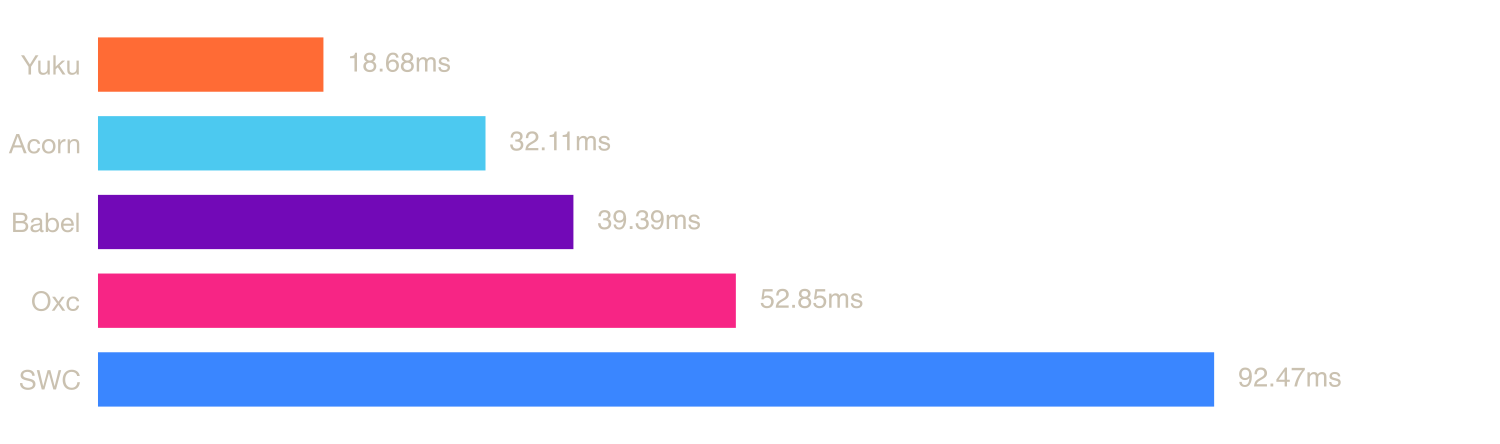
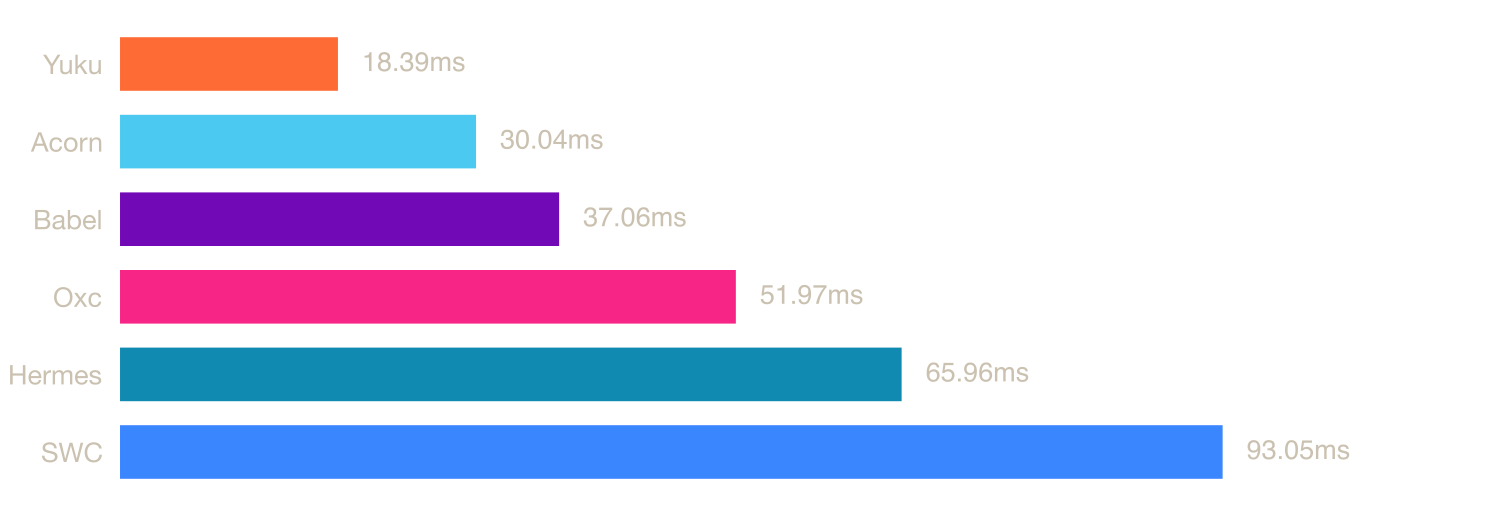
update

Changed region(s): [[0.0, 0.0586, 0.92, 0.9369]]

diff --git a/scripts/generate-readme.ts b/scripts/generate-readme.ts
@@ -10,37 +10,38 @@ const FILES_SOURCE_URL_PREFIX =
 const PARSERS = {
   acorn: {
     name: "Acorn",
-    type: "Pure JS",
     description:
       "A tiny, fast JavaScript parser, written completely in JavaScript.",
     url: "https://github.com/acornjs/acorn",
   },
   babel: {
     name: "Babel",
-    type: "Pure JS",
     description:
       "A JavaScript compiler and parser used by the Babel toolchain.",
     url: "https://github.com/babel/babel/tree/main/packages/babel-parser",
   },
+  hermes: {
+    name: "Hermes",
+    description:
+      "A JavaScript engine optimized for React Native, with a standalone parser available via WASM.",
+    url: "https://github.com/nicolo-ribaudo/hermes-parser",
+  },
   oxc: {
     name: "Oxc",
-    type: "Native (NAPI)",
     description:
-      "A high-performance JavaScript and TypeScript parser written in Rust, with NAPI bindings.",
+      "A high-performance JavaScript and TypeScript parser written in Rust.",
     url: "https://github.com/oxc-project/oxc",
   },
   swc: {
     name: "SWC",
-    type: "Native (NAPI)",
     description:
-      "An extensible Rust-based platform for compiling and bundling JavaScript and TypeScript, with NAPI bindings.",
+      "An extensible Rust-based platform for compiling and bundling JavaScript and TypeScript.",
     url: "https://github.com/swc-project/swc",
   },
   yuku: {
     name: "Yuku",
-    type: "Native (NAPI)",
     description:
-      "A high-performance & spec-compliant JavaScript/TypeScript compiler written in Zig, with NAPI bindings.",
+      "A high-performance & spec-compliant JavaScript/TypeScript compiler written in Zig.",
     url: "https://github.com/yuku-toolchain/yuku",
   },
 } as const;
@@ -48,6 +49,7 @@ const PARSERS = {
 const CHART_COLORS: Record<string, string> = {
   acorn: "#4CC9F0",
   babel: "#7209B7",
+  hermes: "#118AB2",
   oxc: "#F72585",
   swc: "#3A86FF",
   yuku: "#FF6B35",
@@ -56,6 +58,7 @@ const CHART_COLORS: Record<string, string> = {
 const NAME_TO_KEY: Record<string, string> = {
   Acorn: "acorn",
   Babel: "babel",
+  Hermes: "hermes",
   Oxc: "oxc",
   SWC: "swc",
   Yuku: "yuku",
@@ -277,8 +280,6 @@ function generateParsersSection(): string {
 
   for (const [, parser] of Object.entries(PARSERS)) {
     lines.push(`### [${parser.name}](${parser.url})`);
-    lines.push("");
-    lines.push(`**Type:** ${parser.type}`);
     lines.push("");
     lines.push(parser.description);
     lines.push("");

diff --git a/scripts/bench.ts b/scripts/bench.ts
@@ -5,6 +5,7 @@ import * as acorn from "acorn";
 import * as babel from "@babel/parser";
 import * as oxc from "oxc-parser";
 import swc from "@swc/core";
+import { parse as hermesParse } from "hermes-parser";
 import { parseSync as yukuParseSync } from "yuku-parser";
 
 const FILES: Record<string, string> = {
@@ -39,6 +40,10 @@ async function benchFile(fileKey: string, filePath: string): Promise<FileResult>
 
   bench.add("Babel", () => {
     const { program: _ } = babel.parse(source, { sourceType: "module" });
+  });
+
+  bench.add("Hermes", () => {
+    const { body: _ } = hermesParse(source, { sourceType: "module" });
   });
 
   bench.add("Oxc", () => {

diff --git a/hermes-parser.d.ts b/hermes-parser.d.ts
@@ -1,0 +1,3 @@
+declare module "hermes-parser" {
+  export function parse(source: string, options?: { sourceType?: "module" | "script" }): { body: unknown[] };
+}

diff --git a/README.md b/README.md
@@ -15,33 +15,27 @@ Benchmark ECMAScript parsers running in JavaScript, including pure JS parsers an
 
 ### [Acorn](https://github.com/acornjs/acorn)
 
-**Type:** Pure JS
-
 A tiny, fast JavaScript parser, written completely in JavaScript.
 
 ### [Babel](https://github.com/babel/babel/tree/main/packages/babel-parser)
 
-**Type:** Pure JS
-
 A JavaScript compiler and parser used by the Babel toolchain.
+
+### [Hermes](https://github.com/nicolo-ribaudo/hermes-parser)
+
+A JavaScript engine optimized for React Native, with a standalone parser available via WASM.
 
 ### [Oxc](https://github.com/oxc-project/oxc)
 
-**Type:** Native (NAPI)
-
-A high-performance JavaScript and TypeScript parser written in Rust, with NAPI bindings.
+A high-performance JavaScript and TypeScript parser written in Rust.
 
 ### [SWC](https://github.com/swc-project/swc)
 
-**Type:** Native (NAPI)
-
-An extensible Rust-based platform for compiling and bundling JavaScript and TypeScript, with NAPI bindings.
+An extensible Rust-based platform for compiling and bundling JavaScript and TypeScript.
 
 ### [Yuku](https://github.com/yuku-toolchain/yuku)
 
-**Type:** Native (NAPI)
-
-A high-performance & spec-compliant JavaScript/TypeScript compiler written in Zig, with NAPI bindings.
+A high-performance & spec-compliant JavaScript/TypeScript compiler written in Zig.
 
 ## Benchmarks
 
@@ -53,11 +47,12 @@ A high-performance & spec-compliant JavaScript/TypeScript compiler written in Zi
 
 | Parser | Mean | Min | Max |
 |--------|------|-----|-----|
-| Yuku | 63.77 ms | 52.97 ms | 93.18 ms |
-| Acorn | 159.94 ms | 136.92 ms | 291.29 ms |
-| Babel | 203.60 ms | 159.32 ms | 357.88 ms |
-| Oxc | 287.68 ms | 271.93 ms | 349.65 ms |
-| SWC | 585.15 ms | 489.98 ms | 963.14 ms |
+| Yuku | 59.35 ms | 51.86 ms | 101.42 ms |
+| Acorn | 156.29 ms | 135.03 ms | 248.03 ms |
+| Babel | 213.11 ms | 134.29 ms | 590.82 ms |
+| Oxc | 324.41 ms | 268.03 ms | 444.03 ms |
+| Hermes | 353.14 ms | 240.96 ms | 895.95 ms |
+| SWC | 561.34 ms | 475.51 ms | 726.22 ms |
 
 ### [three.js](https://raw.githubusercontent.com/yuku-toolchain/parser-benchmark-files/refs/heads/main/three.js)
 
@@ -67,11 +62,12 @@ A high-performance & spec-compliant JavaScript/TypeScript compiler written in Zi
 
 | Parser | Mean | Min | Max |
 |--------|------|-----|-----|
-| Yuku | 18.68 ms | 16.55 ms | 79.45 ms |
-| Acorn | 32.11 ms | 29.67 ms | 36.81 ms |
-| Babel | 39.39 ms | 28.78 ms | 49.95 ms |
-| Oxc | 52.85 ms | 49.54 ms | 101.73 ms |
-| SWC | 92.47 ms | 87.38 ms | 108.34 ms |
+| Yuku | 18.39 ms | 16.55 ms | 77.06 ms |
+| Acorn | 30.04 ms | 28.67 ms | 40.70 ms |
+| Babel | 37.06 ms | 27.95 ms | 134.85 ms |
+| Oxc | 51.97 ms | 48.99 ms | 67.58 ms |
+| Hermes | 65.96 ms | 55.21 ms | 115.80 ms |
+| SWC | 93.05 ms | 85.67 ms | 210.43 ms |
 
 ### [react.js](https://raw.githubusercontent.com/yuku-toolchain/parser-benchmark-files/refs/heads/main/react.js)
 
@@ -81,11 +77,12 @@ A high-performance & spec-compliant JavaScript/TypeScript compiler written in Zi
 
 | Parser | Mean | Min | Max |
 |--------|------|-----|-----|
-| Yuku | 0.42 ms | 0.38 ms | 4.23 ms |
-| Acorn | 1.08 ms | 0.96 ms | 7.11 ms |
-| Babel | 1.41 ms | 0.93 ms | 6.41 ms |
-| Oxc | 1.60 ms | 1.54 ms | 5.40 ms |
-| SWC | 2.92 ms | 2.81 ms | 6.52 ms |
+| Yuku | 0.41 ms | 0.38 ms | 5.10 ms |
+| Acorn | 1.04 ms | 0.98 ms | 21.48 ms |
+| Babel | 1.08 ms | 0.95 ms | 19.64 ms |
+| Oxc | 1.64 ms | 1.53 ms | 16.95 ms |
+| Hermes | 1.86 ms | 1.69 ms | 35.46 ms |
+| SWC | 2.95 ms | 2.80 ms | 14.03 ms |
 
 ## Run Benchmarks
 
